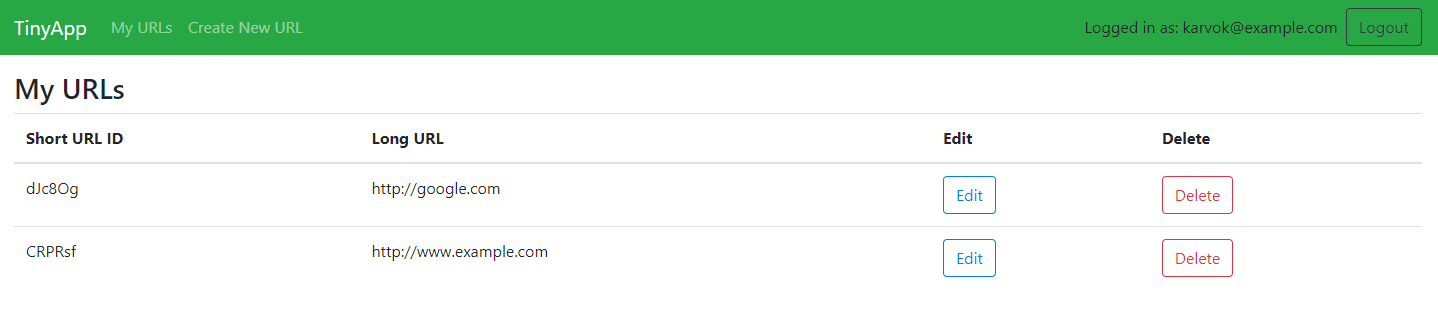
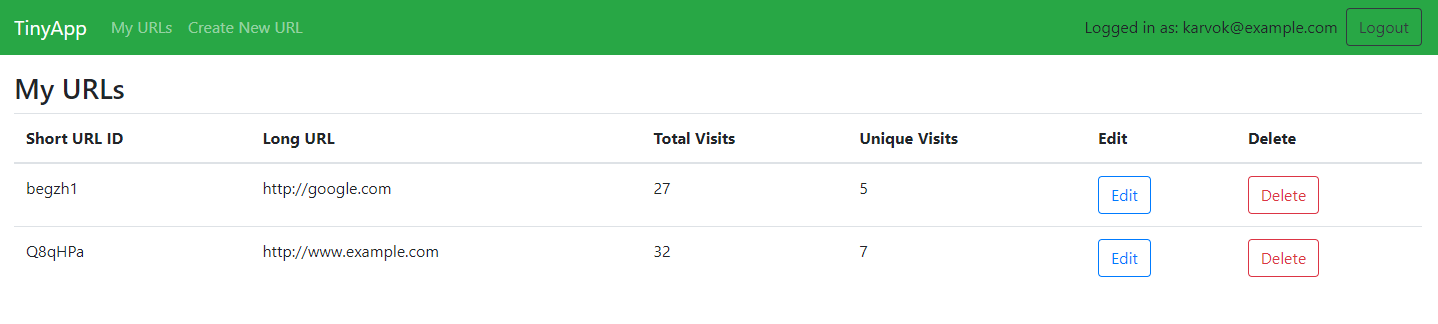
Update README.md and screenshot image files

diff --git a/README.md b/README.md
@@ -12,14 +12,17 @@ Say goodbye to incredibly long and boring website address links.
 Say *hello* to shareable shortlinks that leave plenty of room for your **_sass_**! 🤩  
 
 ## Final Product
-
-*Logged-in user view of saved short URLs:*
-
-!["Screenshot of URLs page"](/docs/urls-page.png)
-
 *View of New User Registration Page:*
 
 !["Screenshot of New User Registration page"](/docs/register-page.png)
+
+*Logged-in user view of saved short URLs with visitor tracking stats:*
+
+!["Screenshot of URLs page"](/docs/urls-page.png)
+
+*Logged-in user view of Edit Short URL page with detailed visitor tracking stats:*
+
+!["Screenshot of URLs page"](/docs/edit-page.png)
 
 ## Purpose
 
